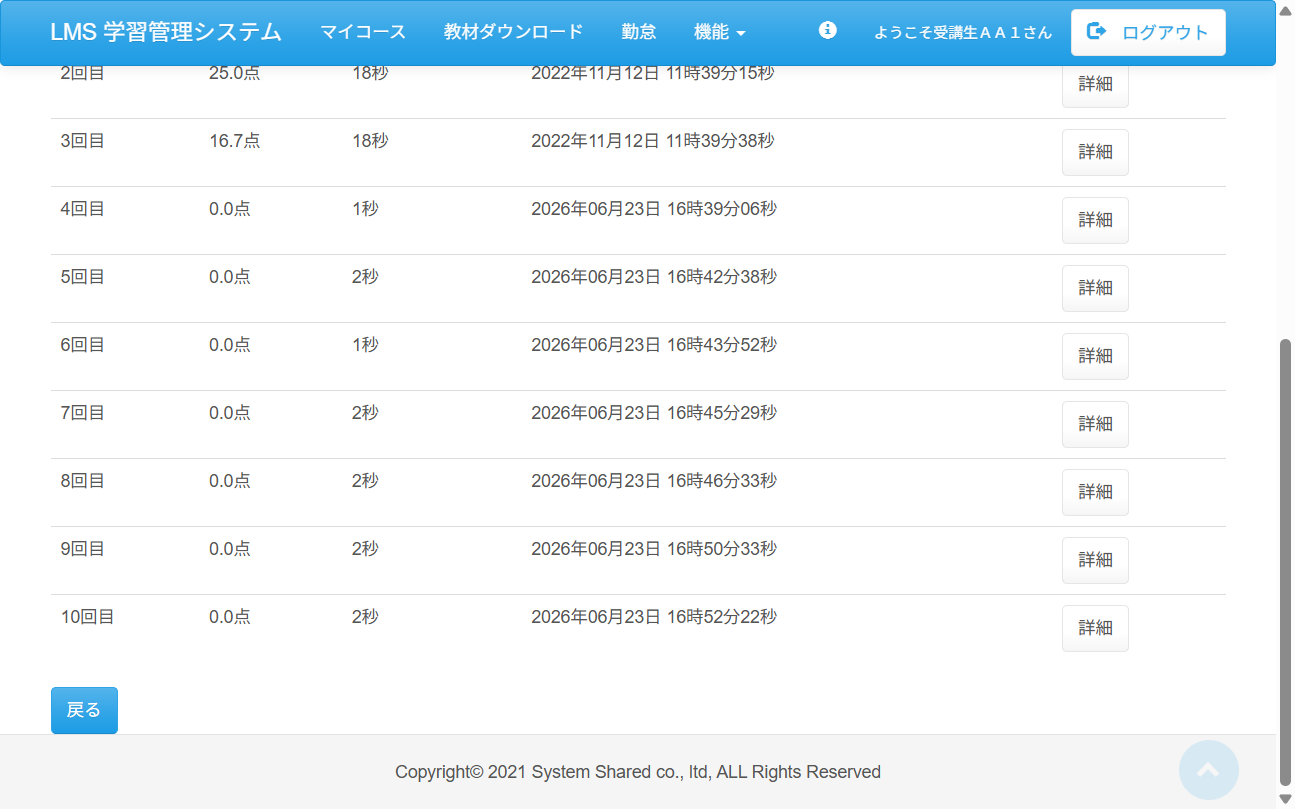
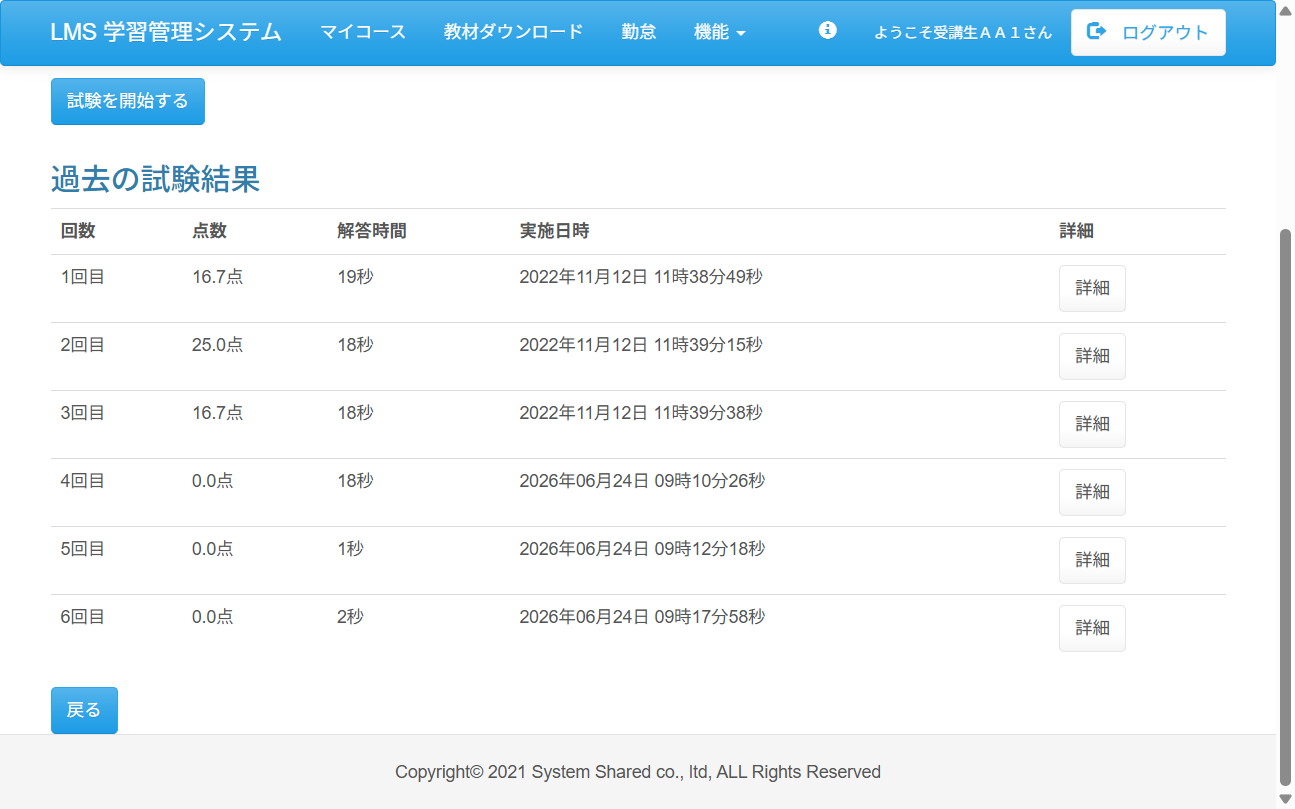
fix: 牧野 Case13修正

diff --git a/test_code_creation_name/src/test/java/jp/co/sss/lms/ct/f05_exam/Case13.java b/test_code_creation_name/src/test/java/jp/co/sss/lms/ct/f05_exam/Case13.java
@@ -135,7 +135,7 @@ public class Case13 {
 	@Test
 	@Order(5)
 	@DisplayName("テスト05 「試験を開始する」ボタンを押下し試験問題画面に遷移")
-	void test05() {
+	void test05() throws InterruptedException {
 		// TODO ここに追加
 
 		WebElement startButton = webDriver.findElement(By.cssSelector("input[value='試験を開始する']"));
@@ -148,7 +148,7 @@ public class Case13 {
 				"arguments[0].click();",
 				startButton);
 
-		visibilityTimeout(By.tagName("h2"), 10);
+		Thread.sleep(1500);
 
 		assertEquals("ITリテラシー① | LMS", webDriver.getTitle());
 
@@ -212,6 +212,9 @@ public class Case13 {
 		visibilityTimeout(By.tagName("h2"), 10);
 
 		assertEquals("ITリテラシー① | LMS", webDriver.getTitle());
+
+		//		あなたのスコアが表示されてるか確認
+		assertTrue(webDriver.findElement(By.cssSelector("h2 small")).getText().contains("あなたのスコア"));
 
 		getEvidence(new Object() {
 		});